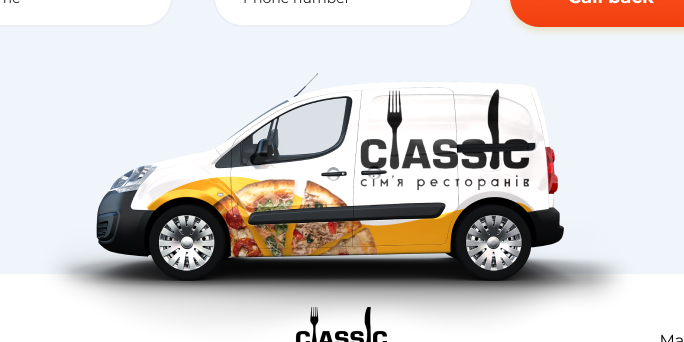
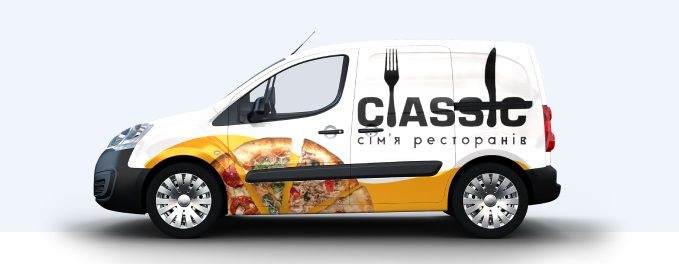
form_all_parts_html_add

diff --git a/index.html b/index.html
@@ -24,11 +24,15 @@
             <section class="form">
               <h2 class="title title_place_form"> Fill out the form and we will call you</h2>
               <form class="form__container">
-                <fieldset class="form__name" type = "text"  placeholder="Your name "></fieldset>
-                <fieldset class="form__phone"></fieldset>
-                <input type="submit" class="form__button">
+                <fieldset class="form__input-container">
+                  <input class="form__name"  type = "text"  placeholder="Your name ">
+                  <input class="form__phone" type="" placeholder="Phone number">
+                  <input type="submit" class="button_place_form">
+                </fieldset>
               </form>
-
+              <img class="form__vegs" alt="fresh vegitables" src="./images/footer__vegitable.png"/>
+              <img class="form_drawing-vegs" alt="drawing vegetables" src="./images/footer__vegitable-drawing.png"/>
+              <img class="form__car" alt="delivery car" src="./images/car.jpg"/>
             </section>
         </main>
         <footer class="footer">
